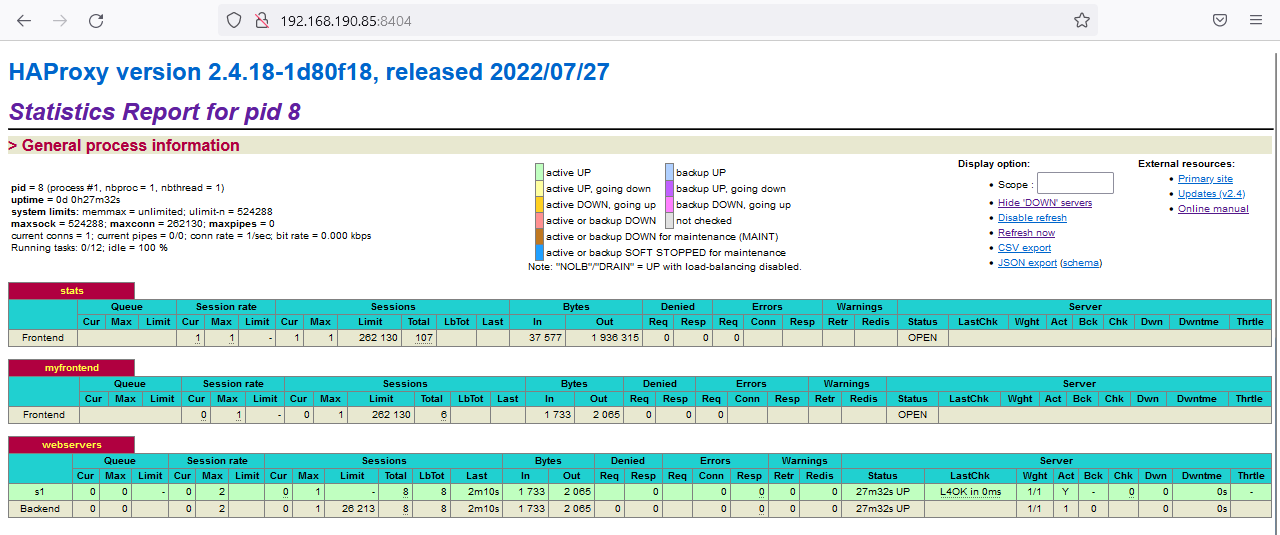
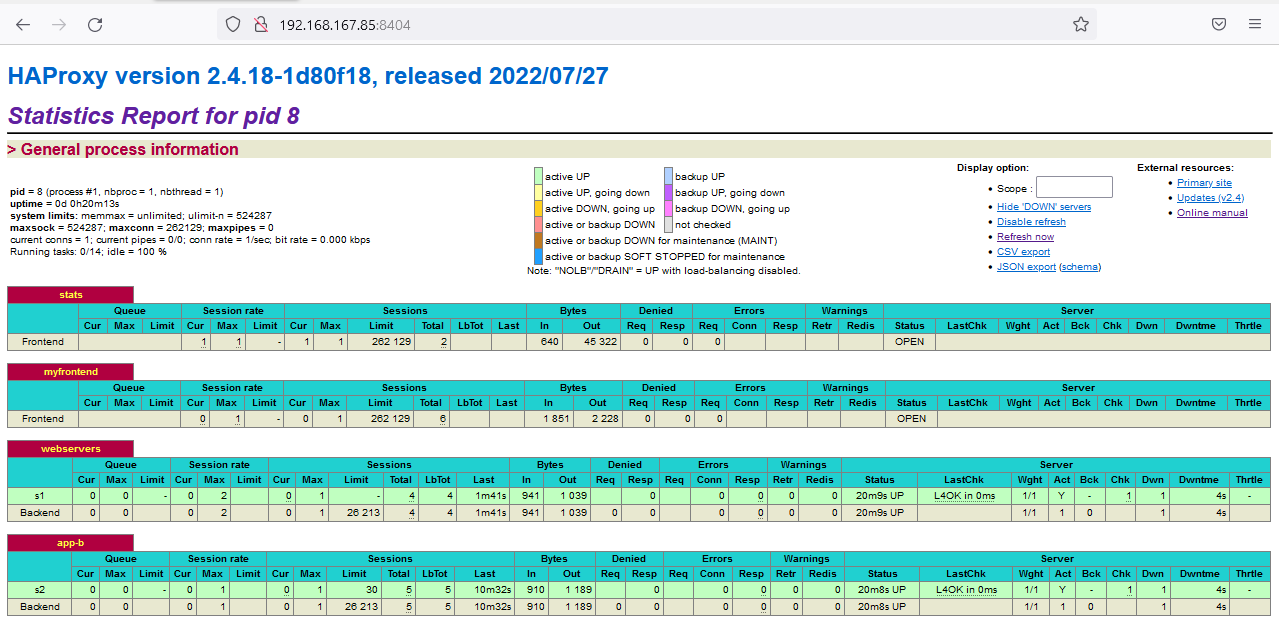
concluding /wit-test route config

diff --git a/README.md b/README.md
@@ -191,7 +191,7 @@ docker build -t wit-test wit-test/
 
 Note that the first parameter refers to the image name and the second to the folder where you should find the files to be used for the build.
 
-After executing the last command, it is possible to view the images in question using the `docker images` command
+After executing the last command, it is possible to view the images in question using the `docker images` command.
 
 Now there is only the image that is ready to be used in the creation of the container. The following command will create the container, allow it to be visible/accessible from the outside on port **:8080** and also ensure that it is the service that will start with the operating system:
 
@@ -379,13 +379,21 @@ frontend myfrontend
   bind :90
   default_backend webservers
 
+use_backend app-b if { path /wit-test } || { path_beg /wit-test/ }
+
 backend webservers
   server s1 proxy:80 check
+  
+backend app-b
+  http-request replace-path /wit-test(/)?(.*) /\2
+  server s2 proxy:80 check maxconn 30
 ````
 
 the LB container will serve on port **:90** and traffic from port **:80** of the host machine will be redirected to port **:90** of the LB container.
 
 The HAproxy dashboard will also be available on port **:8404**, for management.
+
+The `app-b` is also pointing to the `proxy:80`, it's a way to include /wit-test route. Then, **/** and **/wit-test** are pointing to same app.
 
 Being in the directory where we created the configuration file, I executed the following command, to create the container, configure the port rule and the volume mount of the file used.
 
@@ -410,11 +418,15 @@ Once this is done, the configuration has been successfully completed, so it can 
 
 On the **/** route, from the **:80** port, the application that we previously configured is running, from the proxy:
 
-![A test image](C:\xampp\htdocs\ws-challenge\lb1.png)
+![A test image](lb1.png)
+
+On the **/wit-test** route, from the **:80** port,
+
+![A test image](lb2.png)
 
 In the **/** route of the **:8404** port, returns the haproxy dashboard:
 
-![A test image](C:\xampp\htdocs\ws-challenge\lb-dash.png)
+![A test image](lb-dash.png)
 
 
 
@@ -448,13 +460,19 @@ sudo ufw enable
 
 The containers created, as proposed:
 
-![A test image](C:\xampp\htdocs\ws-challenge\rf.png)
+![A test image](rf.png)
 
 
 
+Executing `curl http://demowit.local/wit-test/` the result is shown bellow:
+
+![A test image](proxy2.png)
 
 
 
+Also from outside, using /wit-test route:
+
+![A test image](final-outside.png)
 
 
 
